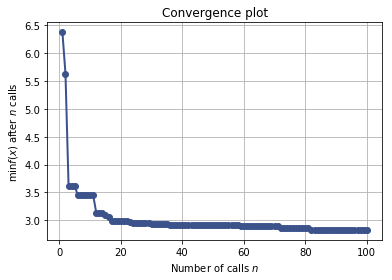
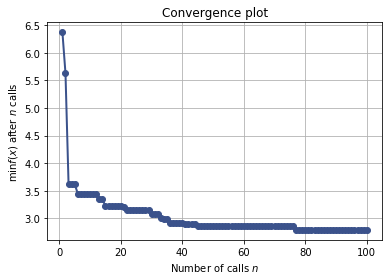
Pushing the docs for revision for branch: master, commit 2565c6a9db86bdad0017f733fed98056b09fdcbe

diff --git a/notebooks/bayesian-optimization.html b/notebooks/bayesian-optimization.html
@@ -1218,50 +1218,50 @@ controlling the exploration-exploitation trade-off.
              kernel=1**2 * Matern(length_scale=1, nu=2.5) + WhiteKernel(noise_level=0.01),
              n_restarts_optimizer=2, noise=0.010000000000000002,
              normalize_y=True, optimizer=&#39;fmin_l_bfgs_b&#39;,
-             random_state=&lt;mtrand.RandomState object at 0x7f86ff2750d8&gt;), GaussianProcessRegressor(alpha=0.0, copy_X_train=True,
+             random_state=&lt;mtrand.RandomState object at 0x7f6e2d555090&gt;), GaussianProcessRegressor(alpha=0.0, copy_X_train=True,
              kernel=1**2 * Matern(length_scale=1, nu=2.5) + WhiteKernel(noise_level=0.01),
              n_restarts_optimizer=2, noise=0.010000000000000002,
              normalize_y=True, optimizer=&#39;fmin_l_bfgs_b&#39;,
-             random_state=&lt;mtrand.RandomState object at 0x7f86fed61d38&gt;), GaussianProcessRegressor(alpha=0.0, copy_X_train=True,
+             random_state=&lt;mtrand.RandomState object at 0x7f6e2d042cf0&gt;), GaussianProcessRegressor(alpha=0.0, copy_X_train=True,
              kernel=1**2 * Matern(length_scale=1, nu=2.5) + WhiteKernel(noise_level=0.01),
              n_restarts_optimizer=2, noise=0.010000000000000002,
              normalize_y=True, optimizer=&#39;fmin_l_bfgs_b&#39;,
-             random_state=&lt;mtrand.RandomState object at 0x7f86fed6a120&gt;), GaussianProcessRegressor(alpha=0.0, copy_X_train=True,
+             random_state=&lt;mtrand.RandomState object at 0x7f6e2d0427e0&gt;), GaussianProcessRegressor(alpha=0.0, copy_X_train=True,
              kernel=1**2 * Matern(length_scale=1, nu=2.5) + WhiteKernel(noise_level=0.01),
              n_restarts_optimizer=2, noise=0.010000000000000002,
              normalize_y=True, optimizer=&#39;fmin_l_bfgs_b&#39;,
-             random_state=&lt;mtrand.RandomState object at 0x7f86fed6a048&gt;), GaussianProcessRegressor(alpha=0.0, copy_X_train=True,
+             random_state=&lt;mtrand.RandomState object at 0x7f6e2d04c0d8&gt;), GaussianProcessRegressor(alpha=0.0, copy_X_train=True,
              kernel=1**2 * Matern(length_scale=1, nu=2.5) + WhiteKernel(noise_level=0.01),
              n_restarts_optimizer=2, noise=0.010000000000000002,
              normalize_y=True, optimizer=&#39;fmin_l_bfgs_b&#39;,
-             random_state=&lt;mtrand.RandomState object at 0x7f87092c5bd0&gt;), GaussianProcessRegressor(alpha=0.0, copy_X_train=True,
+             random_state=&lt;mtrand.RandomState object at 0x7f6e375a8c18&gt;), GaussianProcessRegressor(alpha=0.0, copy_X_train=True,
              kernel=1**2 * Matern(length_scale=1, nu=2.5) + WhiteKernel(noise_level=0.01),
              n_restarts_optimizer=2, noise=0.010000000000000002,
              normalize_y=True, optimizer=&#39;fmin_l_bfgs_b&#39;,
-             random_state=&lt;mtrand.RandomState object at 0x7f87092c56c0&gt;), GaussianProcessRegressor(alpha=0.0, copy_X_train=True,
+             random_state=&lt;mtrand.RandomState object at 0x7f6e375a85e8&gt;), GaussianProcessRegressor(alpha=0.0, copy_X_train=True,
              kernel=1**2 * Matern(length_scale=1, nu=2.5) + WhiteKernel(noise_level=0.01),
              n_restarts_optimizer=2, noise=0.010000000000000002,
              normalize_y=True, optimizer=&#39;fmin_l_bfgs_b&#39;,
-             random_state=&lt;mtrand.RandomState object at 0x7f8709233d80&gt;), GaussianProcessRegressor(alpha=0.0, copy_X_train=True,
+             random_state=&lt;mtrand.RandomState object at 0x7f6e37515d38&gt;), GaussianProcessRegressor(alpha=0.0, copy_X_train=True,
              kernel=1**2 * Matern(length_scale=1, nu=2.5) + WhiteKernel(noise_level=0.01),
              n_restarts_optimizer=2, noise=0.010000000000000002,
              normalize_y=True, optimizer=&#39;fmin_l_bfgs_b&#39;,
-             random_state=&lt;mtrand.RandomState object at 0x7f870929f870&gt;), GaussianProcessRegressor(alpha=0.0, copy_X_train=True,
+             random_state=&lt;mtrand.RandomState object at 0x7f6e37515e10&gt;), GaussianProcessRegressor(alpha=0.0, copy_X_train=True,
              kernel=1**2 * Matern(length_scale=1, nu=2.5) + WhiteKernel(noise_level=0.01),
              n_restarts_optimizer=2, noise=0.010000000000000002,
              normalize_y=True, optimizer=&#39;fmin_l_bfgs_b&#39;,
-             random_state=&lt;mtrand.RandomState object at 0x7f870922ff30&gt;), GaussianProcessRegressor(alpha=0.0, copy_X_train=True,
+             random_state=&lt;mtrand.RandomState object at 0x7f6e37510288&gt;), GaussianProcessRegressor(alpha=0.0, copy_X_train=True,
              kernel=1**2 * Matern(length_scale=1, nu=2.5) + WhiteKernel(noise_level=0.01),
              n_restarts_optimizer=2, noise=0.010000000000000002,
              normalize_y=True, optimizer=&#39;fmin_l_bfgs_b&#39;,
-             random_state=&lt;mtrand.RandomState object at 0x7f870922fbd0&gt;)]
- random_state: &lt;mtrand.RandomState object at 0x7f86ff26f630&gt;
+             random_state=&lt;mtrand.RandomState object at 0x7f6e375102d0&gt;)]
+ random_state: &lt;mtrand.RandomState object at 0x7f6e2d54e5e8&gt;
         space: Space([Real(low=-2.0, high=2.0, prior=uniform, transform=identity)])
         specs: {&#39;args&#39;: {&#39;n_jobs&#39;: 1, &#39;kappa&#39;: 1.96, &#39;xi&#39;: 0.01, &#39;n_restarts_optimizer&#39;: 5, &#39;n_points&#39;: 10000, &#39;callback&#39;: None, &#39;verbose&#39;: False, &#39;random_state&#39;: 123, &#39;y0&#39;: None, &#39;x0&#39;: None, &#39;acq_optimizer&#39;: &#39;lbfgs&#39;, &#39;acq_func&#39;: &#39;gp_hedge&#39;, &#39;n_random_starts&#39;: 5, &#39;n_calls&#39;: 15, &#39;base_estimator&#39;: GaussianProcessRegressor(alpha=0.0, copy_X_train=True,
              kernel=1**2 * Matern(length_scale=1, nu=2.5),
              n_restarts_optimizer=2, noise=0.010000000000000002,
              normalize_y=True, optimizer=&#39;fmin_l_bfgs_b&#39;,
-             random_state=&lt;mtrand.RandomState object at 0x7f86ff265cf0&gt;), &#39;dimensions&#39;: [(-2.0, 2.0)], &#39;func&#39;: &lt;function f at 0x7f870b95e2f0&gt;}, &#39;function&#39;: &#39;base_minimize&#39;}
+             random_state=&lt;mtrand.RandomState object at 0x7f6e2d546ca8&gt;), &#39;dimensions&#39;: [(-2.0, 2.0)], &#39;func&#39;: &lt;function f at 0x7f6e39c3f2f0&gt;}, &#39;function&#39;: &#39;base_minimize&#39;}
             x: [1.0775847199230746]
       x_iters: [[0.78587674239144656], [-0.85544266019848214], [-1.0925941857431876], [0.20525907633156493], [0.87787587914225229], [0.9988440432617629], [-1.5056345340653883], [1.3351066670390532], [2.0], [0.93297233307258765], [-2.0], [1.6642887050388204], [1.1146548472419311], [1.0775847199230746], [1.0817200061160452]]
 </pre></div>

diff --git a/notebooks/hyperparameter-optimization.html b/notebooks/hyperparameter-optimization.html
@@ -1160,7 +1160,7 @@ Katie Malone, August 2016</p>
 </pre></div>
 
 
-<div class="codehilite"><pre><span></span>&#39;Best score=2.8288&#39;
+<div class="codehilite"><pre><span></span>&#39;Best score=2.7914&#39;
 </pre></div>
 
 
@@ -1177,9 +1177,9 @@ Katie Malone, August 2016</p>
 
 <div class="codehilite"><pre><span></span>Best parameters:
 - max_depth=5
-- learning_rate=0.135994
-- max_features=9
-- min_samples_split=36
+- learning_rate=0.113381
+- max_features=7
+- min_samples_split=38
 - min_samples_leaf=1
 </pre></div>
 

diff --git a/notebooks/ask-and-tell.html b/notebooks/ask-and-tell.html
@@ -1115,7 +1115,7 @@ table {
 </pre></div>
 
 
-<div class="codehilite"><pre><span></span>&lt;matplotlib.figure.Figure at 0x7fb7e9789b38&gt;
+<div class="codehilite"><pre><span></span>&lt;matplotlib.figure.Figure at 0x7fc178671b00&gt;
 </pre></div>
 
 

diff --git a/notebooks/strategy-comparison.html b/notebooks/strategy-comparison.html
@@ -1115,7 +1115,7 @@ table {
 </pre></div>
 
 
-<div class="codehilite"><pre><span></span>&lt;matplotlib.figure.Figure at 0x7fc5041eab38&gt;
+<div class="codehilite"><pre><span></span>&lt;matplotlib.figure.Figure at 0x7eff1ef8cb00&gt;
 </pre></div>
 
 

diff --git a/notebooks/visualizing-results.html b/notebooks/visualizing-results.html
@@ -1115,7 +1115,7 @@ table {
 </pre></div>
 
 
-<div class="codehilite"><pre><span></span>&lt;matplotlib.figure.Figure at 0x7ff08018fac8&gt;
+<div class="codehilite"><pre><span></span>&lt;matplotlib.figure.Figure at 0x7fb89c62cac8&gt;
 </pre></div>
 
 

diff --git a/notebooks/bayesian-optimization.md b/notebooks/bayesian-optimization.md
@@ -134,50 +134,50 @@ print(res)
                  kernel=1**2 * Matern(length_scale=1, nu=2.5) + WhiteKernel(noise_level=0.01),
                  n_restarts_optimizer=2, noise=0.010000000000000002,
                  normalize_y=True, optimizer='fmin_l_bfgs_b',
-                 random_state=<mtrand.RandomState object at 0x7f86ff2750d8>), GaussianProcessRegressor(alpha=0.0, copy_X_train=True,
+                 random_state=<mtrand.RandomState object at 0x7f6e2d555090>), GaussianProcessRegressor(alpha=0.0, copy_X_train=True,
                  kernel=1**2 * Matern(length_scale=1, nu=2.5) + WhiteKernel(noise_level=0.01),
                  n_restarts_optimizer=2, noise=0.010000000000000002,
                  normalize_y=True, optimizer='fmin_l_bfgs_b',
-                 random_state=<mtrand.RandomState object at 0x7f86fed61d38>), GaussianProcessRegressor(alpha=0.0, copy_X_train=True,
+                 random_state=<mtrand.RandomState object at 0x7f6e2d042cf0>), GaussianProcessRegressor(alpha=0.0, copy_X_train=True,
                  kernel=1**2 * Matern(length_scale=1, nu=2.5) + WhiteKernel(noise_level=0.01),
                  n_restarts_optimizer=2, noise=0.010000000000000002,
                  normalize_y=True, optimizer='fmin_l_bfgs_b',
-                 random_state=<mtrand.RandomState object at 0x7f86fed6a120>), GaussianProcessRegressor(alpha=0.0, copy_X_train=True,
+                 random_state=<mtrand.RandomState object at 0x7f6e2d0427e0>), GaussianProcessRegressor(alpha=0.0, copy_X_train=True,
                  kernel=1**2 * Matern(length_scale=1, nu=2.5) + WhiteKernel(noise_level=0.01),
                  n_restarts_optimizer=2, noise=0.010000000000000002,
                  normalize_y=True, optimizer='fmin_l_bfgs_b',
-                 random_state=<mtrand.RandomState object at 0x7f86fed6a048>), GaussianProcessRegressor(alpha=0.0, copy_X_train=True,
+                 random_state=<mtrand.RandomState object at 0x7f6e2d04c0d8>), GaussianProcessRegressor(alpha=0.0, copy_X_train=True,
                  kernel=1**2 * Matern(length_scale=1, nu=2.5) + WhiteKernel(noise_level=0.01),
                  n_restarts_optimizer=2, noise=0.010000000000000002,
                  normalize_y=True, optimizer='fmin_l_bfgs_b',
-                 random_state=<mtrand.RandomState object at 0x7f87092c5bd0>), GaussianProcessRegressor(alpha=0.0, copy_X_train=True,
+                 random_state=<mtrand.RandomState object at 0x7f6e375a8c18>), GaussianProcessRegressor(alpha=0.0, copy_X_train=True,
                  kernel=1**2 * Matern(length_scale=1, nu=2.5) + WhiteKernel(noise_level=0.01),
                  n_restarts_optimizer=2, noise=0.010000000000000002,
                  normalize_y=True, optimizer='fmin_l_bfgs_b',
-                 random_state=<mtrand.RandomState object at 0x7f87092c56c0>), GaussianProcessRegressor(alpha=0.0, copy_X_train=True,
+                 random_state=<mtrand.RandomState object at 0x7f6e375a85e8>), GaussianProcessRegressor(alpha=0.0, copy_X_train=True,
                  kernel=1**2 * Matern(length_scale=1, nu=2.5) + WhiteKernel(noise_level=0.01),
                  n_restarts_optimizer=2, noise=0.010000000000000002,
                  normalize_y=True, optimizer='fmin_l_bfgs_b',
-                 random_state=<mtrand.RandomState object at 0x7f8709233d80>), GaussianProcessRegressor(alpha=0.0, copy_X_train=True,
+                 random_state=<mtrand.RandomState object at 0x7f6e37515d38>), GaussianProcessRegressor(alpha=0.0, copy_X_train=True,
                  kernel=1**2 * Matern(length_scale=1, nu=2.5) + WhiteKernel(noise_level=0.01),
                  n_restarts_optimizer=2, noise=0.010000000000000002,
                  normalize_y=True, optimizer='fmin_l_bfgs_b',
-                 random_state=<mtrand.RandomState object at 0x7f870929f870>), GaussianProcessRegressor(alpha=0.0, copy_X_train=True,
+                 random_state=<mtrand.RandomState object at 0x7f6e37515e10>), GaussianProcessRegressor(alpha=0.0, copy_X_train=True,
                  kernel=1**2 * Matern(length_scale=1, nu=2.5) + WhiteKernel(noise_level=0.01),
                  n_restarts_optimizer=2, noise=0.010000000000000002,
                  normalize_y=True, optimizer='fmin_l_bfgs_b',
-                 random_state=<mtrand.RandomState object at 0x7f870922ff30>), GaussianProcessRegressor(alpha=0.0, copy_X_train=True,
+                 random_state=<mtrand.RandomState object at 0x7f6e37510288>), GaussianProcessRegressor(alpha=0.0, copy_X_train=True,
                  kernel=1**2 * Matern(length_scale=1, nu=2.5) + WhiteKernel(noise_level=0.01),
                  n_restarts_optimizer=2, noise=0.010000000000000002,
                  normalize_y=True, optimizer='fmin_l_bfgs_b',
-                 random_state=<mtrand.RandomState object at 0x7f870922fbd0>)]
-     random_state: <mtrand.RandomState object at 0x7f86ff26f630>
+                 random_state=<mtrand.RandomState object at 0x7f6e375102d0>)]
+     random_state: <mtrand.RandomState object at 0x7f6e2d54e5e8>
             space: Space([Real(low=-2.0, high=2.0, prior=uniform, transform=identity)])
             specs: {'args': {'n_jobs': 1, 'kappa': 1.96, 'xi': 0.01, 'n_restarts_optimizer': 5, 'n_points': 10000, 'callback': None, 'verbose': False, 'random_state': 123, 'y0': None, 'x0': None, 'acq_optimizer': 'lbfgs', 'acq_func': 'gp_hedge', 'n_random_starts': 5, 'n_calls': 15, 'base_estimator': GaussianProcessRegressor(alpha=0.0, copy_X_train=True,
                  kernel=1**2 * Matern(length_scale=1, nu=2.5),
                  n_restarts_optimizer=2, noise=0.010000000000000002,
                  normalize_y=True, optimizer='fmin_l_bfgs_b',
-                 random_state=<mtrand.RandomState object at 0x7f86ff265cf0>), 'dimensions': [(-2.0, 2.0)], 'func': <function f at 0x7f870b95e2f0>}, 'function': 'base_minimize'}
+                 random_state=<mtrand.RandomState object at 0x7f6e2d546ca8>), 'dimensions': [(-2.0, 2.0)], 'func': <function f at 0x7f6e39c3f2f0>}, 'function': 'base_minimize'}
                 x: [1.0775847199230746]
           x_iters: [[0.78587674239144656], [-0.85544266019848214], [-1.0925941857431876], [0.20525907633156493], [0.87787587914225229], [0.9988440432617629], [-1.5056345340653883], [1.3351066670390532], [2.0], [0.93297233307258765], [-2.0], [1.6642887050388204], [1.1146548472419311], [1.0775847199230746], [1.0817200061160452]]
 

diff --git a/notebooks/hyperparameter-optimization.md b/notebooks/hyperparameter-optimization.md
@@ -72,7 +72,7 @@ res_gp = gp_minimize(objective, space, n_calls=100, random_state=0)
 
 
 
-    'Best score=2.8288'
+    'Best score=2.7914'
 
 
 
@@ -90,9 +90,9 @@ print("""Best parameters:
 
     Best parameters:
     - max_depth=5
-    - learning_rate=0.135994
-    - max_features=9
-    - min_samples_split=36
+    - learning_rate=0.113381
+    - max_features=7
+    - min_samples_split=38
     - min_samples_leaf=1
 
 

diff --git a/notebooks/ask-and-tell.md b/notebooks/ask-and-tell.md
@@ -14,7 +14,7 @@ plt.set_cmap("viridis")
 ```
 
 
-    <matplotlib.figure.Figure at 0x7fb7e9789b38>
+    <matplotlib.figure.Figure at 0x7fc178671b00>
 
 
 Bayesian optimization is used to tune parameters for walking robots or other experiments

diff --git a/notebooks/strategy-comparison.md b/notebooks/strategy-comparison.md
@@ -14,7 +14,7 @@ plt.set_cmap("viridis")
 ```
 
 
-    <matplotlib.figure.Figure at 0x7fc5041eab38>
+    <matplotlib.figure.Figure at 0x7eff1ef8cb00>
 
 
 Bayesian optimization or sequential model-based optimization uses a surrogate model

diff --git a/notebooks/visualizing-results.md b/notebooks/visualizing-results.md
@@ -14,7 +14,7 @@ plt.set_cmap("viridis")
 ```
 
 
-    <matplotlib.figure.Figure at 0x7ff08018fac8>
+    <matplotlib.figure.Figure at 0x7fb89c62cac8>
 
 
 Bayesian optimization or sequential model-based optimization uses a surrogate model
